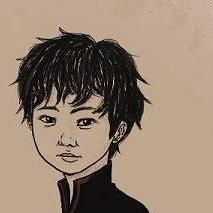
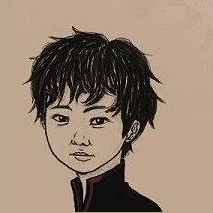
added profile about me and mock photo

Changed region(s): [[0.0282, 0.1127, 0.7887, 1.0]]

diff --git a/index.html b/index.html
@@ -33,12 +33,11 @@
             <div class="name-block">
                 <div class="name-block-container">
                     <h1><span>Please to meet you, I'm</span>Francis Redido</h1>
-                    <h2>Web Developer</h2>
+                    <h2>Front End Developer</h2>
                     <a class="btn btn-download">Download Resume</a>
                     <ul class="social">
-                        <li><a href=""><i class="fa fa-facebook"></i></a></li>
-                        <li><a href=""><i class="fa fa-twitter"></i></a></li>
-                        <li><a href=""><i class="fa fa-linkedin"></i></a></li>
+                        <li><a href="https://github.com/sicnarfodider"><i class="fa fa-github"></i></a></li>
+                        <li><a href="https://www.linkedin.com/in/fredido/"><i class="fa fa-linkedin"></i></a></li>
                     </ul>
                 </div>
             </div>
@@ -64,22 +63,26 @@
                     <div class="block-content">
                         <h3 class="block-title">Profile</h3>
                         <div class="row">
+                            <div class="col-md-12">
+                                <img class="sign" src="images/iconf.jpg" alt="" />
+                            </div>
+                        </div>
+                        <div class="row">
                             <div class="col-md-7">
-                                <p>Sed ut perspiciatis unde omnis iste natus errorsit voluptatem accusantium doloremque laudantium, totam rem aperiam, eaque ipsa quae ab illo inventore veritatis et quasi architecto beatae vitae dicta sunt explicabo. </p>
-                                <p>Sed ut perspiciatis unde omnis iste natus errorsit voluptatem accusantium doloremque laudantium, totam rem aperiam, eaque ipsa quae ab illo inventore veritatis et quasi architecto beatae vitae dicta sunt explicabo. </p>
+                                <p>A nursing graduate turned web developer looking for opportunities to
+                                    create interactive and eye catching web pages for your business. After working for a couple of years in the healthcare industry
+                                    I decided that it wasn't the right long term path for me. So I got back to my old curiousity in coding that I had when I was in college.
+                                    It was not long after I got back into it that I accelerated my learning by getting in a coding bootcamp. Spending day and night
+                                    dabbling with code and building apps with amazing people.
+                                </p>
+                                <p>Aside from coding I enjoy playing video games or watching streams of it. You can also find me listening to mellow/jazzy hiphop and comedy albums</p>
                             </div>
                             <div class="col-md-5">
                                 <ul class="info-list">
                                     <li><strong>Name : </strong>Francis Redido</li>
                                     <li><strong>Address : </strong>Huntington Beach, CA</li>
-                                    <li><strong>Interest : </strong>coding, jazzy hiphop,video games and movies</li>
                                 </ul>
                             </div>
-                        </div>
-                        <div class="row">
-                        	<div class="col-md-12">
-                        		<img class="sign" src="images/signature.png" alt="" />
-                        	</div>
                         </div>
                     </div>
                     <div class="block-content skills">

diff --git a/css/style.css b/css/style.css
@@ -481,6 +481,8 @@ h2.menu-item:hover:after {
 
 .sign {
     margin-top: 30px;
+    border-radius: 50%;
+    border: 1px solid black;
 }
 
 ul.info-list {
